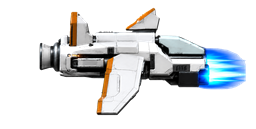
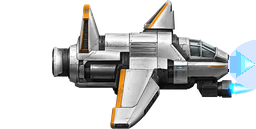
clown haha

diff --git a/app/jogo/page.tsx b/app/jogo/page.tsx
@@ -1789,7 +1789,7 @@ const LOCAL_MODE_OPTIONS: Array<{ label: string; mode: GameMode; description: st
 ];
 
 const LOCAL_PLAYER_COLORS = ["#60a5fa", "#f97316", "#22c55e", "#e879f9"];
-const SPACE_NEWS_VERSION = "2.6.8";
+const SPACE_NEWS_VERSION = "2.6.9";
 
 
 const INPUT_DEVICE_CHOICES: InputDeviceChoice[] = [
@@ -6426,6 +6426,22 @@ export default function JogoPage() {
     return imagemShop(dodge ? item.dodgeAsset || item.asset : item.asset);
   }
 
+  function imagemRecolorComoNave(equipped?: EquippedCosmetics, dodge = false, movingFrame?: number) {
+    const recolor = itemShopPorId(equipped?.recolor);
+    if (!recolor || recolor.id === "recolor-classic") return null;
+    if (!dodge && recolor.moveFrames?.length && typeof movingFrame === "number") {
+      const frameSrc = recolor.moveFrames[movingFrame % recolor.moveFrames.length];
+      const frameImg = imagemShop(frameSrc);
+      if (frameImg) return frameImg;
+    }
+    return assetCosmetico(recolor, dodge);
+  }
+
+  function srcRecolorPreview(equipped?: EquippedCosmetics) {
+    const recolor = itemShopPorId(equipped?.recolor);
+    return recolor && recolor.id !== "recolor-classic" ? recolor.asset : "/game/player/ship-idle.png";
+  }
+
   function desenharCosmeticosNave(ctx: CanvasRenderingContext2D, player: Player, options?: { dodge?: boolean; alpha?: number; equipped?: EquippedCosmetics; movingFrame?: number; superSpark?: boolean }) {
     const profile = localProfileRef.current;
     const equipped = options?.equipped || profile.equipped || {};
@@ -6463,8 +6479,8 @@ export default function JogoPage() {
       }
       ctx.restore();
     };
-    const recolor = itemShopPorId(equipped.recolor);
-    if (recolor && recolor.id !== "recolor-classic") drawFull(recolor.id, true);
+    // NAVES/recolors são base completa da nave. Não desenhar aqui como camada,
+    // senão parece que a nave realista está sobrepondo a nave padrão.
     if (ACCESSORY_SPRITES_ENABLED) {
       drawFull(equipped.middle);
       drawFull(equipped.front);
@@ -14949,12 +14965,15 @@ export default function JogoPage() {
         : null;
 
       const playerIdleAsset = assetsRef.current.get("player");
-      const playerAsset =
+      const equippedLocal = localProfileRef.current.equipped || {};
+      const recolorAsset = imagemRecolorComoNave(equippedLocal, isDodging, shouldUseMoveFrames ? anim.frame : undefined);
+      const playerAsset = recolorAsset || (
         isDodging && dodgeAsset
           ? dodgeAsset
-          : (movingFrameAsset ?? playerIdleAsset);
+          : (movingFrameAsset ?? playerIdleAsset)
+      );
       const playerConfig =
-        isDodging && dodgeAsset ? ASSETS.playerDodge : ASSETS.player;
+        isDodging && dodgeAsset && !recolorAsset ? ASSETS.playerDodge : ASSETS.player;
 
       ctx.save();
       const chargingAbility =
@@ -15818,7 +15837,9 @@ export default function JogoPage() {
       const anim = playerAnimRef.current;
       anim.update(delta);
       const moving = Math.hypot(player.vx, player.vy) > CONFIG.gameplay.player.animationMoveThreshold || now < player.boostUntil;
-      const img = moving ? assetsRef.current.getFrame("player", anim.frame) : assetsRef.current.get("player");
+      const equippedP2 = onlineGameplayActiveRef.current ? onlineCosmeticsBySlotRef.current[slotVisualPlayer2Online()] : undefined;
+      const img = imagemRecolorComoNave(equippedP2, now < player.dodgeUntil, moving ? anim.frame : undefined)
+        || (moving ? assetsRef.current.getFrame("player", anim.frame) : assetsRef.current.get("player"));
 
       ctx.save();
       ctx.translate(player.x + player.w / 2, player.y + player.h / 2);
@@ -15854,7 +15875,7 @@ export default function JogoPage() {
         ctx.closePath();
         ctx.fill();
       }
-      desenharCosmeticosNave(ctx, player, { dodge: now < player.dodgeUntil, alpha: ghostLocal ? 0.3 : 0.88, movingFrame: anim.frame, equipped: onlineGameplayActiveRef.current ? onlineCosmeticsBySlotRef.current[slotVisualPlayer2Online()] : undefined });
+      desenharCosmeticosNave(ctx, player, { dodge: now < player.dodgeUntil, alpha: ghostLocal ? 0.3 : 0.88, movingFrame: anim.frame, equipped: equippedP2 });
 
       if (shieldVisual) {
         const t = now * 0.006;
@@ -15887,7 +15908,9 @@ export default function JogoPage() {
         const ghostLocal = isLocalWaveMode() && player.hp <= 0;
         if (!ghostLocal && player.hp <= 0 && Math.floor(now / 180) % 2 === 0) continue;
         const moving = Math.hypot(player.vx, player.vy) > CONFIG.gameplay.player.animationMoveThreshold || now < player.boostUntil;
-        const img = moving ? assetsRef.current.getFrame("player", anim.frame) : assetsRef.current.get("player");
+        const equippedRuntime = onlineGameplayActiveRef.current ? onlineCosmeticsBySlotRef.current[runtime.slot] : undefined;
+        const img = imagemRecolorComoNave(equippedRuntime, now < player.dodgeUntil, moving ? anim.frame : undefined)
+          || (moving ? assetsRef.current.getFrame("player", anim.frame) : assetsRef.current.get("player"));
         const color = runtime.color || LOCAL_PLAYER_COLORS[runtime.slot - 1] || "#ffffff";
         ctx.save();
         ctx.translate(player.x + player.w / 2, player.y + player.h / 2);
@@ -15914,7 +15937,7 @@ export default function JogoPage() {
           ctx.closePath();
           ctx.fill();
         }
-        desenharCosmeticosNave(ctx, player, { dodge: now < player.dodgeUntil, alpha: ghostLocal ? 0.28 : 0.82, movingFrame: anim.frame, equipped: onlineGameplayActiveRef.current ? onlineCosmeticsBySlotRef.current[runtime.slot] : undefined });
+        desenharCosmeticosNave(ctx, player, { dodge: now < player.dodgeUntil, alpha: ghostLocal ? 0.28 : 0.82, movingFrame: anim.frame, equipped: equippedRuntime });
         const shieldUntil = runtime.powerups.shieldUntil ?? runtime.shieldUntil ?? 0;
         if (player.hp > 0 && now < shieldUntil) {
           ctx.globalAlpha = 0.35 + Math.sin(now * 0.012) * 0.08;
@@ -22300,10 +22323,10 @@ export default function JogoPage() {
                 const hovered = itemShopPorId(shopPreviewItemId);
                 const previewEquipped = hovered ? { ...equipped, [hovered.slot]: hovered.id } : equipped;
                 const previewItems = [
-                  itemShopPorId(previewEquipped.recolor),
                   itemShopPorId(previewEquipped.middle),
                   itemShopPorId(previewEquipped.front),
                 ].filter(Boolean) as ShopItem[];
+                const previewBaseSrc = srcRecolorPreview(previewEquipped);
                 const pet = itemShopPorId(previewEquipped.pet);
                 const ownedCount = SHOP_ITEMS.filter((item) => localProfile.inventory.includes(item.id)).length;
                 const equippedCount = Object.values(equipped).filter(Boolean).length;
@@ -22313,7 +22336,7 @@ export default function JogoPage() {
                       <div className="sn-shop-orbit-ring-v250" />
                       <div className="sn-shop-ship-preview-v250" aria-label="Preview da nave customizada">
                         <div className="sn-shop-preview-glow-v221" />
-                        <img className="sn-shop-preview-base-v221" src={assetUrl("/game/player/ship-idle.png")} alt="" />
+                        <img className="sn-shop-preview-base-v221" src={assetUrl(previewBaseSrc)} alt="" />
                         {previewItems.map((item) => itemPreviewVisivelShop(item) && (
                           <img key={item.id} className="sn-shop-preview-layer-v221" src={assetUrl(item.asset)} alt="" />
                         ))}
@@ -22510,12 +22533,13 @@ export default function JogoPage() {
                     <h3>NAVE E PET</h3>
                     {(() => {
                       const equipped = localProfile.equipped || {};
-                      const previewItems = [itemShopPorId(equipped.recolor), itemShopPorId(equipped.middle), itemShopPorId(equipped.front)].filter(Boolean) as ShopItem[];
+                      const previewItems = [itemShopPorId(equipped.middle), itemShopPorId(equipped.front)].filter(Boolean) as ShopItem[];
+                      const previewBaseSrc = srcRecolorPreview(equipped);
                       const pet = itemShopPorId(equipped.pet);
                       return (
                         <div className="sn-profile-loadout-grid-v250">
                           <div className="sn-profile-ship-preview-v250">
-                            <img className="sn-shop-preview-base-v221" src={assetUrl("/game/player/ship-idle.png")} alt="" />
+                            <img className="sn-shop-preview-base-v221" src={assetUrl(previewBaseSrc)} alt="" />
                             {previewItems.map((item) => itemPreviewVisivelShop(item) && <img key={item.id} className="sn-shop-preview-layer-v221" src={assetUrl(item.asset)} alt="" />)}
                             {pet && <img className="sn-shop-preview-pet-v250" src={assetUrl(pet.asset)} alt="" />}
                           </div>
@@ -22642,7 +22666,8 @@ export default function JogoPage() {
       {selectedFriendProfile && (() => {
         const summary = selectedFriendProfile;
         const equipped = summary.equipped || {};
-        const previewItems = [itemShopPorId(equipped.recolor), itemShopPorId(equipped.middle), itemShopPorId(equipped.front)].filter(Boolean) as ShopItem[];
+        const previewItems = [itemShopPorId(equipped.middle), itemShopPorId(equipped.front)].filter(Boolean) as ShopItem[];
+        const previewBaseSrc = srcRecolorPreview(equipped);
         const pet = itemShopPorId(equipped.pet);
         return (
           <div className="sn-profile-backdrop-v20 sn-online-profile-backdrop-v250" role="dialog" aria-modal="true">
@@ -22658,7 +22683,7 @@ export default function JogoPage() {
               </header>
               <div className="sn-online-profile-body-v250">
                 <div className="sn-profile-ship-preview-v250">
-                  <img className="sn-shop-preview-base-v221" src={assetUrl("/game/player/ship-idle.png")} alt="" />
+                  <img className="sn-shop-preview-base-v221" src={assetUrl(previewBaseSrc)} alt="" />
                   {previewItems.map((item) => itemPreviewVisivelShop(item) && <img key={item.id} className="sn-shop-preview-layer-v221" src={assetUrl(item.asset)} alt="" />)}
                   {pet && <img className="sn-shop-preview-pet-v250" src={assetUrl(pet.asset)} alt="" />}
                 </div>
@@ -22679,7 +22704,8 @@ export default function JogoPage() {
         const player = onlinePlayers.find((item) => item.slot === selectedOnlineProfileSlot);
         const summary = player?.profileSummary;
         const equipped = summary?.equipped || player?.cosmetics || {};
-        const previewItems = [itemShopPorId(equipped.recolor), itemShopPorId(equipped.middle), itemShopPorId(equipped.front)].filter(Boolean) as ShopItem[];
+        const previewItems = [itemShopPorId(equipped.middle), itemShopPorId(equipped.front)].filter(Boolean) as ShopItem[];
+        const previewBaseSrc = srcRecolorPreview(equipped);
         const pet = itemShopPorId(equipped.pet);
         return player ? (
           <div className="sn-profile-backdrop-v20 sn-online-profile-backdrop-v250" role="dialog" aria-modal="true">
@@ -22696,7 +22722,7 @@ export default function JogoPage() {
               </header>
               <div className="sn-online-profile-body-v250">
                 <div className="sn-profile-ship-preview-v250">
-                  <img className="sn-shop-preview-base-v221" src={assetUrl("/game/player/ship-idle.png")} alt="" />
+                  <img className="sn-shop-preview-base-v221" src={assetUrl(previewBaseSrc)} alt="" />
                   {previewItems.map((item) => itemPreviewVisivelShop(item) && <img key={item.id} className="sn-shop-preview-layer-v221" src={assetUrl(item.asset)} alt="" />)}
                   {pet && <img className="sn-shop-preview-pet-v250" src={assetUrl(pet.asset)} alt="" />}
                 </div>
